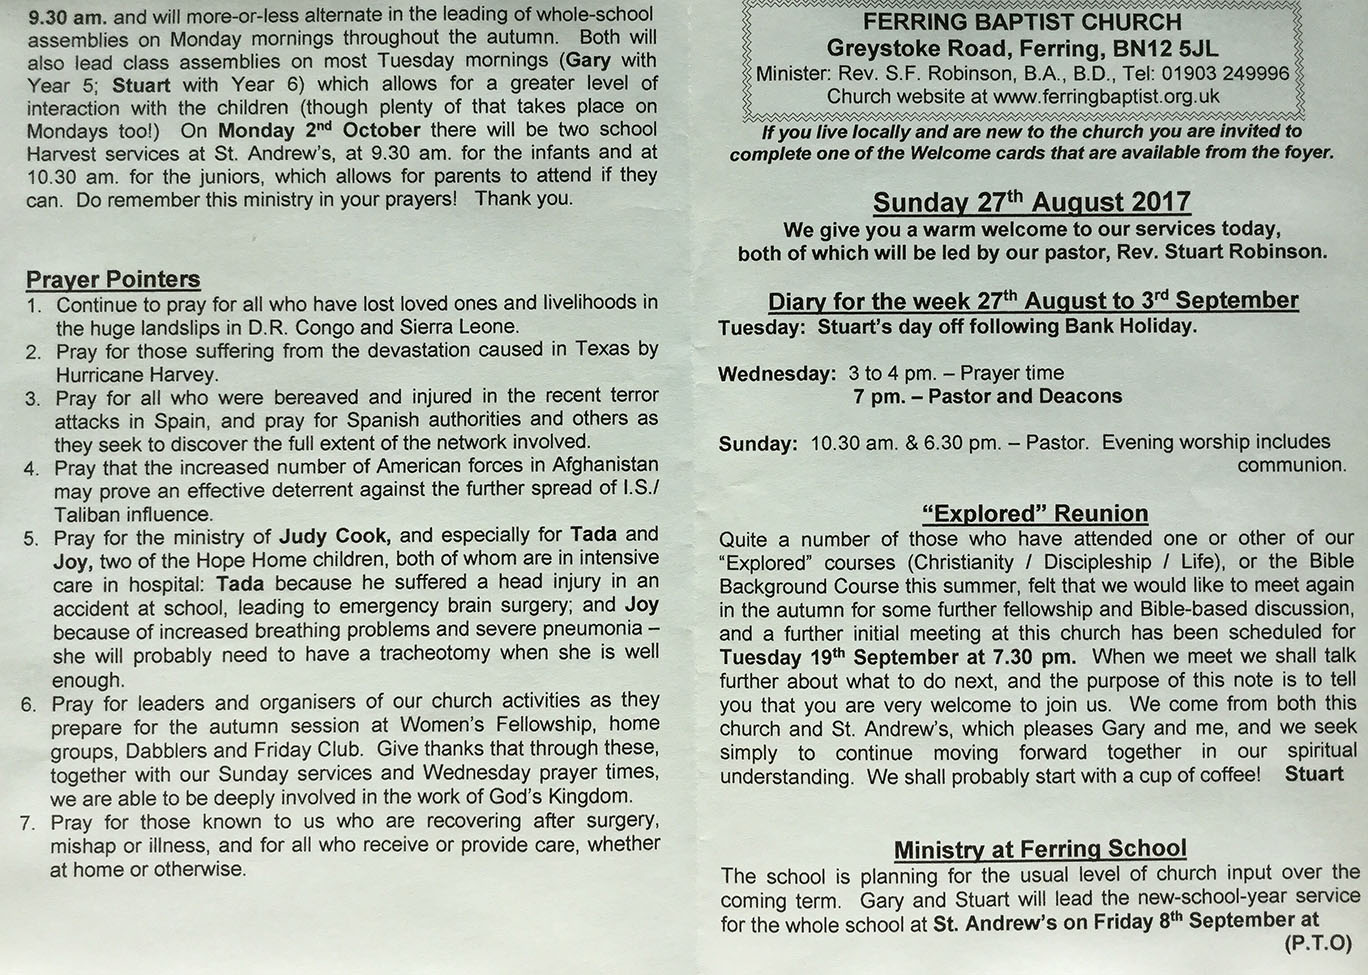
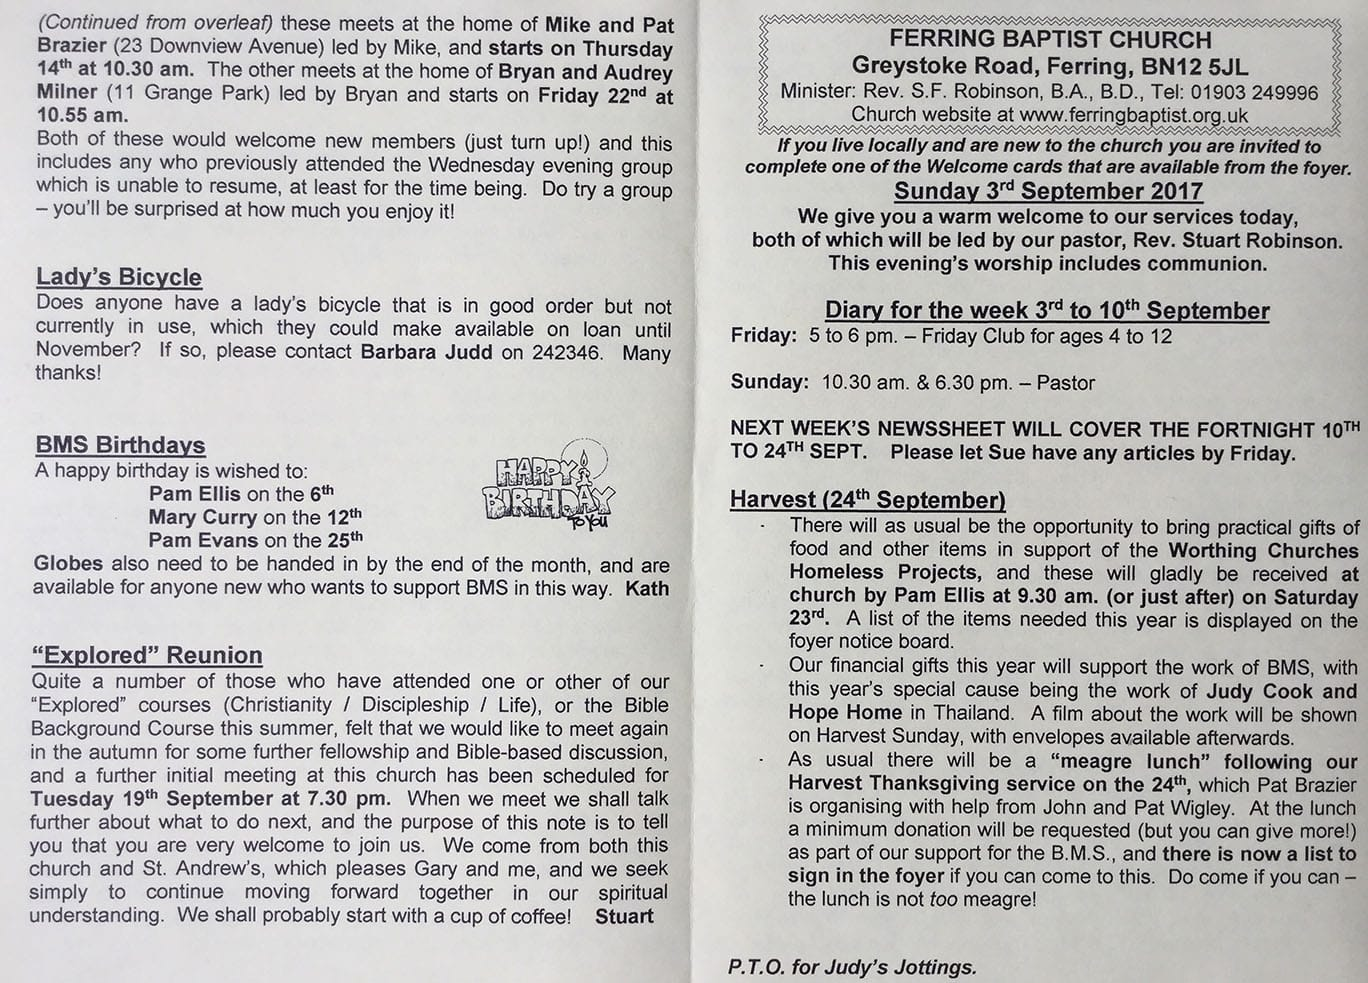
Weekly update

diff --git a/diary.php b/diary.php
@@ -6,7 +6,7 @@
 
 				<p class="centre">(For a long-term look at our church, see the <a href="upcoming.php">Coming Weeks page</a>)</p>
 
-				<p class="centre"><strong>Schedule for the week 27th August to 3rd September</strong></p>
+				<p class="centre"><strong>Schedule for the week 3rd to 10th September</strong></p>
 
 				<table class="styled" summary="Schedule for events in the coming week(s)">
 					<thead>
@@ -18,14 +18,14 @@
 					</thead>
 					<tbody>
 						<tr class="odd">
-							<th scope="row">Wednesday<br />3:00-4:00 P.M.</th>
-							<td>Prayer time</td>
+							<th scope="row">Friday<br />5:00-6:00 P.M.</th>
+							<td>Friday Club<br />(Ages 4-12)</td>
 							<td></td>
 						</tr>
 						<tr>
 							<th scope="row">Sunday<br />10:30 A.M.<br />6:30 P.M.</th>
 							<td>Sunday Services</td>
-							<td>Evening worship includes communion</td>
+							<td></td>
 						</tr>
 					</tbody>
 				</table>

diff --git a/newssheet.php b/newssheet.php
@@ -16,7 +16,7 @@
 
 				<a href="images/newssheetfront.jpg"><img src="images/newssheetfront.jpg" width="600" style="margin-left: 75px;" /></a>
 
-				<!--<a href="images/newssheetinside.jpg"><img src="images/newssheetinside.jpg" width="600" style="margin-left: 75px;" /></a>-->
+				<a href="images/newssheetinside.jpg"><img src="images/newssheetinside.jpg" width="600" style="margin-left: 75px;" /></a>
 
 			</div>
 			<div id="footer">
